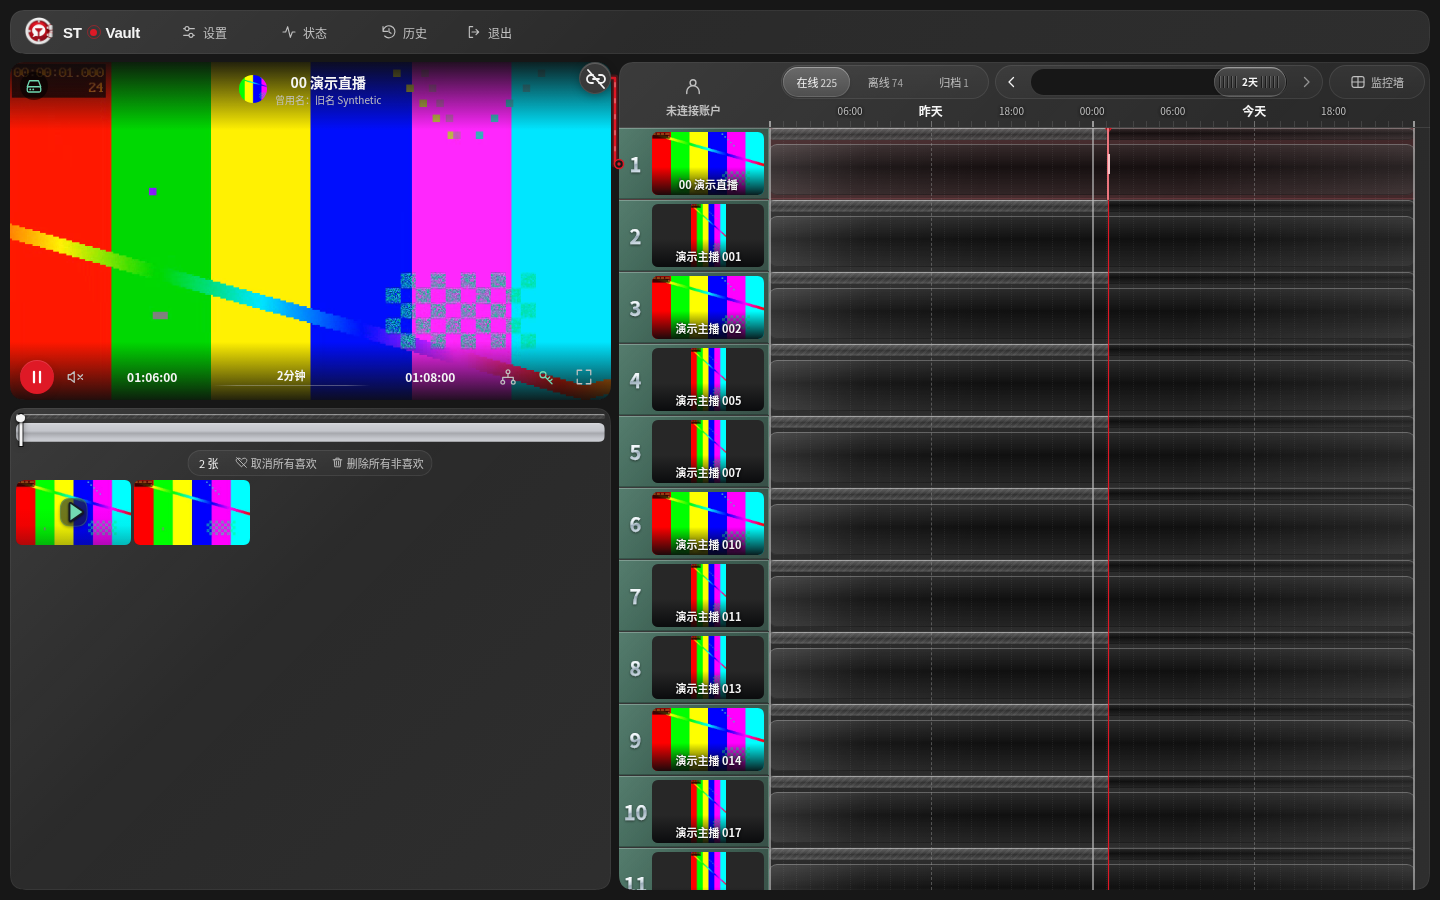
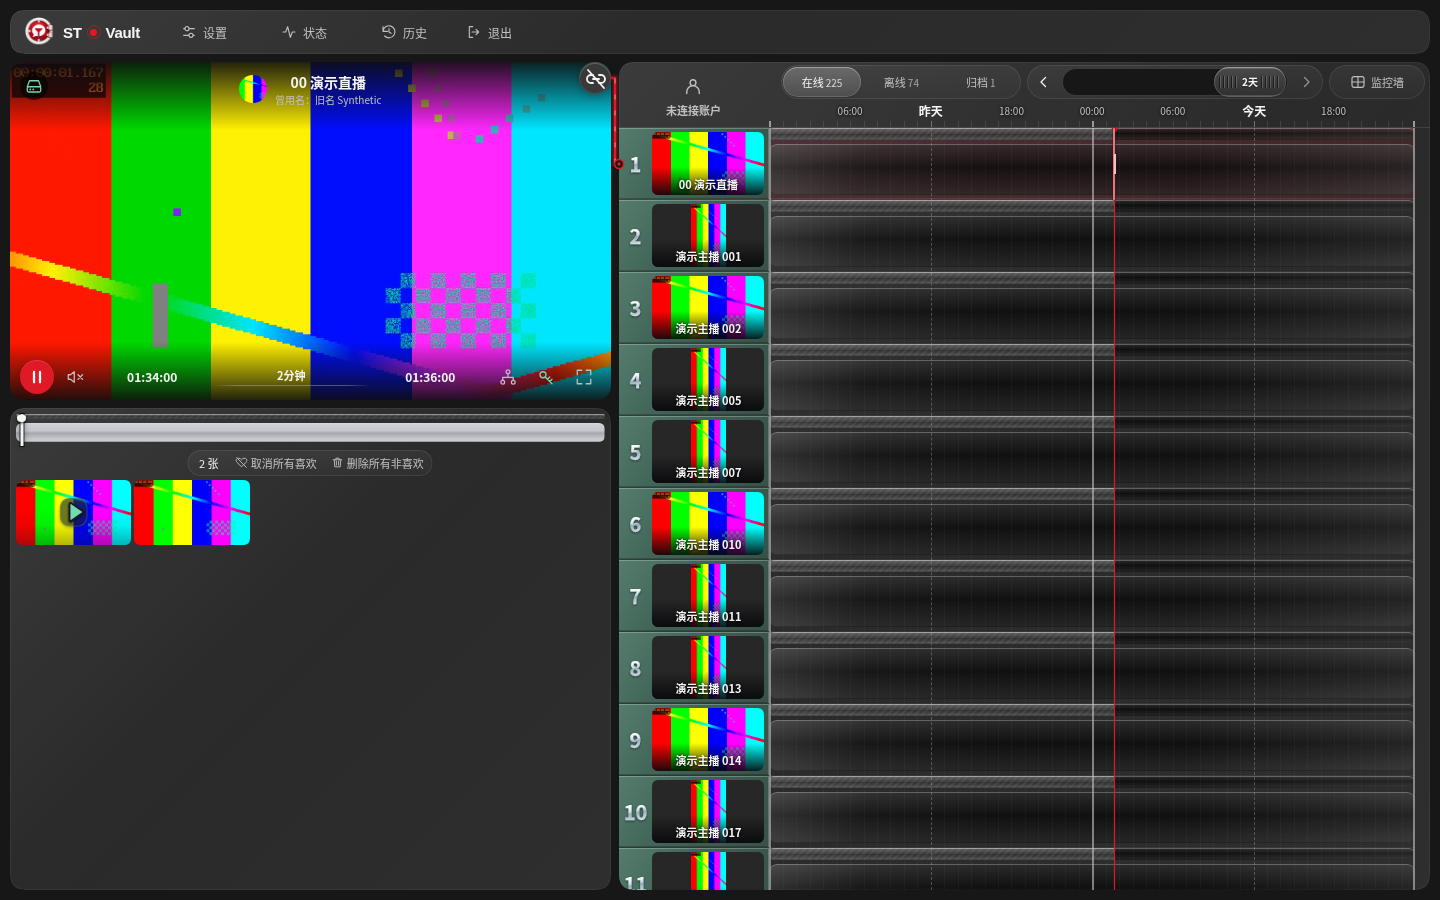
Keep toolbar geometry stable and refresh release screenshots

diff --git a/apps/ui/src/design/liquid-glass.css b/apps/ui/src/design/liquid-glass.css
@@ -209,11 +209,6 @@ button:disabled {
 .subject-filters {
   gap: 2px;
 }
-@container track-header (min-width: 561px) {
-  .subject-filters:lang(en) {
-    flex-basis: 240px;
-  }
-}
 .subject-filters button {
   border-radius: var(--radius-pill);
   corner-shape: round;

diff --git a/apps/ui/src/style.css b/apps/ui/src/style.css
@@ -383,7 +383,7 @@ strong {
 }
 .subject-filters {
   display: flex;
-  flex: 0 0 208px;
+  flex: 0 0 240px;
   min-width: 0;
 }
 .subject-filters button {
